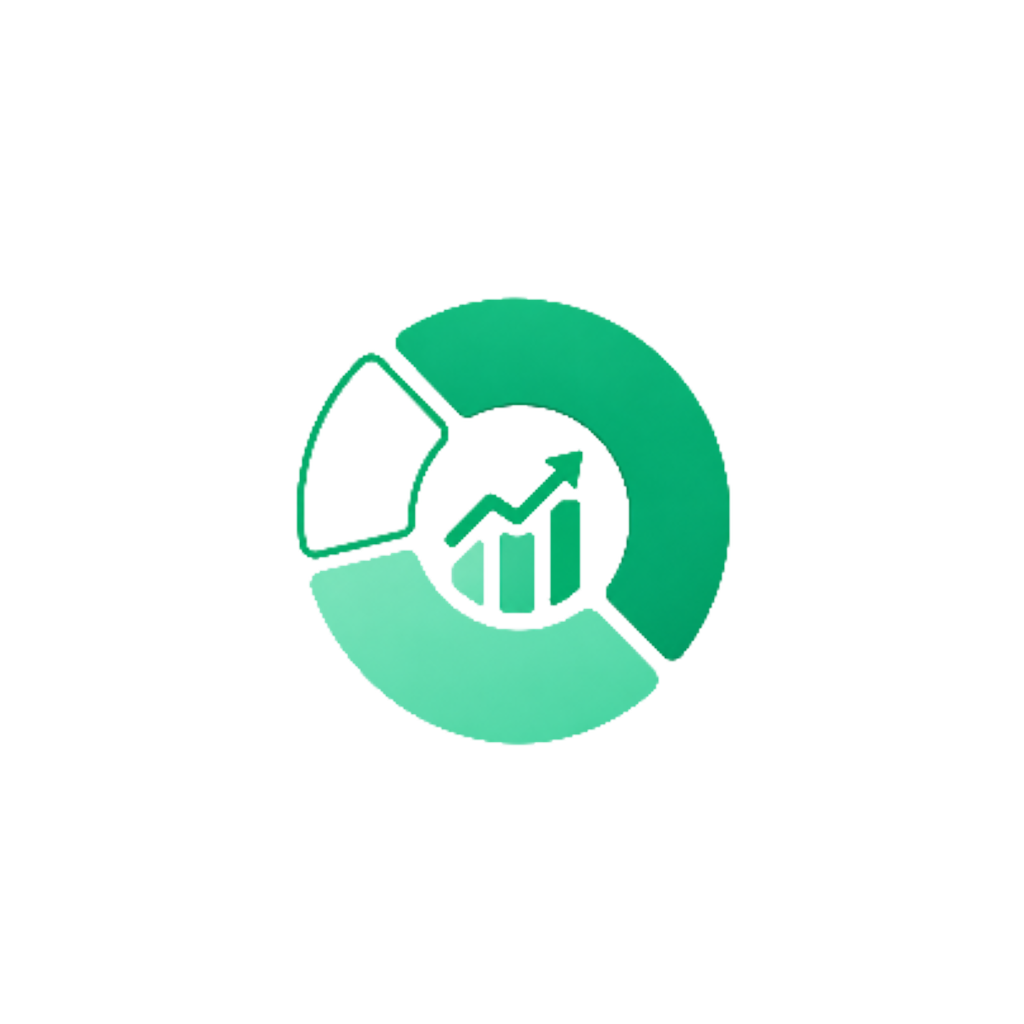
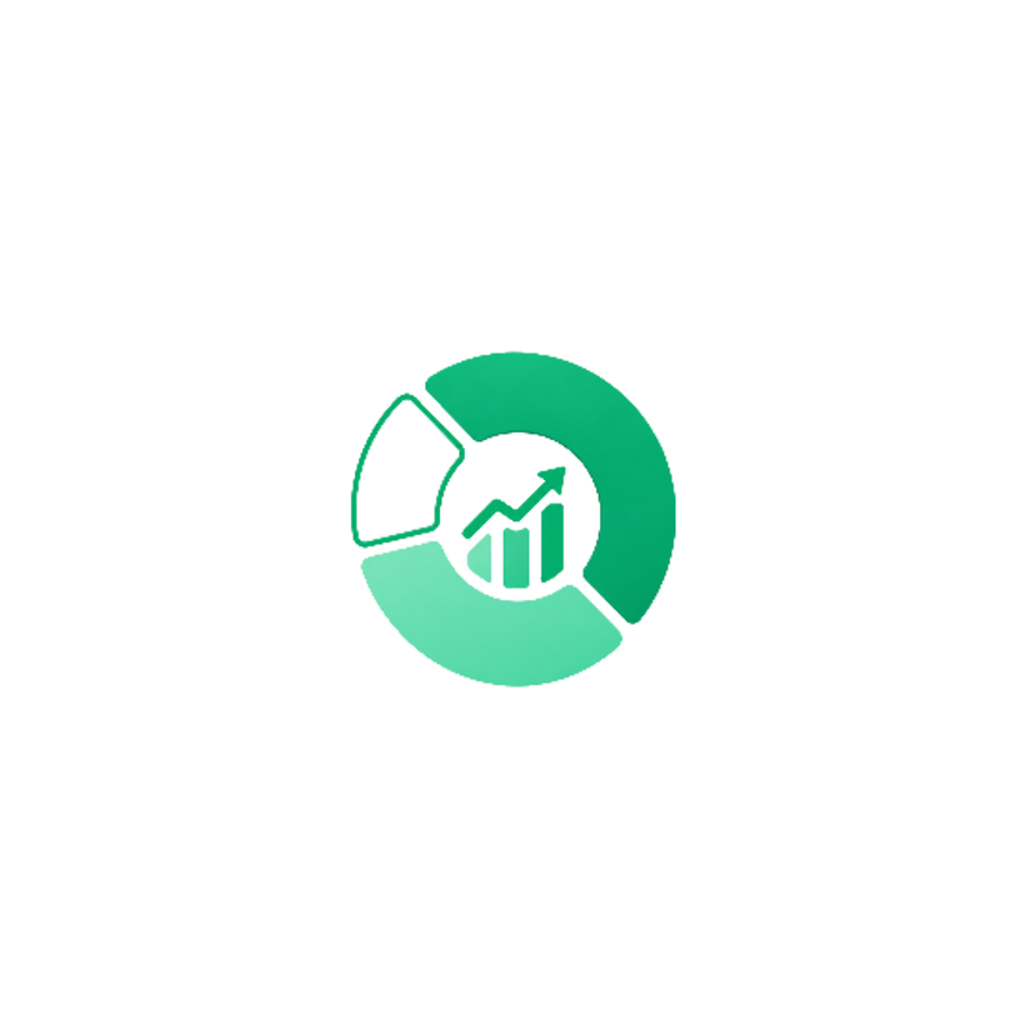
feat: 8 update UX sebelum build
1. Setup Wizard — jumlah sales pakai navigator ‹ › max 2 (free tier)
   Bisa tambah lebih nanti di Pengaturan, tidak ada upgrade prompt saat setup

2. HistoryScreen crash (chipStyle missing C) — sudah di-fix sebelumnya

3. Icon APK — logo 75% canvas (naik dari 68%, lebih besar, tidak terpotong)
   Pakai sharp trim() agar logo murni sebelum resize

4. Header logo terpisah — assets/logo_header.png (transparent bg, 85%)
   Header App.js pakai logo_header.png bukan icon.png (no borderRadius)

5. Settings — Simpan inline per-section, hapus tombol besar di bawah
   Nama Bisnis: tombol ✓ di sebelah kanan TextInput
   Format Bon: tombol ✓ Simpan di sebelah kanan preview bon

6. Format Tanggal — kompak 3 chip horizontal, klik langsung simpan otomatis
   Tidak perlu tombol terpisah, lebih ringkas

7. Lock screen — selalu lock langsung saat app ditutup (seperti app bank)
   Hapus pilihan timeout (Langsung/30s/1m/5m) — terlalu banyak setting

8. Auto-sync GDrive setiap 10 input transaksi (silent, tidak ada Alert)

Changed region(s): [[0.2812, 0.2812, 0.7188, 0.75]]

diff --git a/src/screens/SettingsModal.js b/src/screens/SettingsModal.js
@@ -58,15 +58,19 @@ function SettingsModal({ data, onUpdate, onImport, onRestoreJson, onClose,
   const [fmt,     setFmt]       = useState(dateFormat||'dd/mm/yyyy');
   const [newSales, setNewSales] = useState('');
 
-  const save = async () => {
+  // Save individual sections inline
+  const saveCompany = async () => {
+    if (!company.trim()) { Alert.alert('', 'Nama bisnis tidak boleh kosong'); return; }
+    await onUpdate({ companyName: company.trim() });
+    Alert.alert('✓', 'Nama bisnis disimpan');
+  };
+  const saveBonFormat = async () => {
     await onUpdate({
-      companyName:   company.trim(),
-      bonPrefix:     prefix.toUpperCase(),
-      bonSeparator:  sep,
-      bonDigits:     Math.max(1, parseInt(digits)||5),
-      dateFormat:    fmt,
+      bonPrefix:    prefix.toUpperCase(),
+      bonSeparator: sep,
+      bonDigits:    Math.max(1, parseInt(digits)||5),
     });
-    onClose();
+    Alert.alert('✓', 'Format bon disimpan');
   };
 
   const handleAddSales = async () => {
@@ -604,11 +608,19 @@ function SettingsModal({ data, onUpdate, onImport, onRestoreJson, onClose,
         </View>
 
         <ScrollView contentContainerStyle={{ padding:16, paddingBottom:50 }}>
-          {/* Company */}
+          {/* Company — simpan inline */}
           <View style={st.card}>
             <Text style={st.label}>Nama Bisnis</Text>
-            <TextInput value={company} onChangeText={setCompany}
-              placeholder="Nama bisnis..." placeholderTextColor={C.muted} style={st.input} />
+            <View style={{ flexDirection:'row', gap:8, alignItems:'center' }}>
+              <TextInput value={company} onChangeText={setCompany}
+                placeholder="Nama bisnis..." placeholderTextColor={C.muted}
+                style={[st.input, { flex:1 }]} />
+              <TouchableOpacity onPress={saveCompany}
+                style={{ backgroundColor:C.primary, borderRadius:10, paddingHorizontal:14,
+                  paddingVertical:14, alignItems:'center' }}>
+                <Text style={{ color:'#fff', fontSize:13, fontWeight:'800' }}>✓</Text>
+              </TouchableOpacity>
+            </View>
           </View>
 
           {/* Sales management */}
@@ -659,23 +671,37 @@ function SettingsModal({ data, onUpdate, onImport, onRestoreJson, onClose,
                   keyboardType="number-pad" style={st.input} placeholderTextColor={C.muted}/>
               </View>
             </View>
-            <Text style={[st.mono, { color:C.accent, fontSize:16, fontWeight:'800' }]}>
-              {prefix}{sep}{padNum(1, parseInt(digits)||5)}
-            </Text>
+            <View style={{ flexDirection:'row', alignItems:'center', justifyContent:'space-between' }}>
+              <Text style={[st.mono, { color:C.accent, fontSize:16, fontWeight:'800' }]}>
+                {prefix}{sep}{padNum(1, parseInt(digits)||5)}
+              </Text>
+              <TouchableOpacity onPress={saveBonFormat}
+                style={{ backgroundColor:C.primary, borderRadius:10, paddingHorizontal:16,
+                  paddingVertical:8 }}>
+                <Text style={{ color:'#fff', fontSize:13, fontWeight:'800' }}>✓ Simpan</Text>
+              </TouchableOpacity>
+            </View>
           </View>
 
-          {/* Date format */}
+          {/* Date format — kompak, pilih langsung simpan */}
           <View style={st.card}>
             <Text style={{ color:C.muted, fontSize:11, fontWeight:'700', letterSpacing:0.8, textTransform:'uppercase', marginBottom:10 }}>
               FORMAT TANGGAL
             </Text>
-            {['dd/mm/yyyy','mm/dd/yyyy','yyyy/mm/dd'].map(f => (
-              <TouchableOpacity key={f} onPress={() => setFmt(f)}
-                style={{ flexDirection:'row', justifyContent:'space-between', paddingVertical:10, borderBottomWidth:1, borderBottomColor:C.border }}>
-                <Text style={{ color:C.text, fontSize:14 }}>{f.toUpperCase()}</Text>
-                {fmt===f && <Text style={{ color:C.success }}>✓</Text>}
-              </TouchableOpacity>
-            ))}
+            <View style={{ flexDirection:'row', gap:6 }}>
+              {['dd/mm/yyyy','mm/dd/yyyy','yyyy/mm/dd'].map(f => (
+                <TouchableOpacity key={f}
+                  onPress={async () => { setFmt(f); await onUpdate({ dateFormat: f }); }}
+                  style={{ flex:1, paddingVertical:10, borderRadius:10, alignItems:'center',
+                    backgroundColor: fmt===f ? C.primary : C.input,
+                    borderWidth: fmt===f ? 0 : 1, borderColor: C.border }}>
+                  <Text style={{ color: fmt===f ? '#fff' : C.muted, fontSize:10, fontWeight:'700' }}>
+                    {f.toUpperCase()}
+                  </Text>
+                  {fmt===f && <Text style={{ color:'rgba(255,255,255,0.7)', fontSize:8, marginTop:2 }}>✓ aktif</Text>}
+                </TouchableOpacity>
+              ))}
+            </View>
           </View>
 
           {/* Google Drive Backup — locked jika belum beli BACKUP SYNC */}
@@ -891,11 +917,10 @@ function SettingsModal({ data, onUpdate, onImport, onRestoreJson, onClose,
                       cancelLabel:           'Batal',
                       disableDeviceFallback: false,
                     });
-                    if (!result.success) return; // batal — jangan aktifkan
+                    if (!result.success) return;
                     setPinLockEnabled(true);
-                    onUpdate({ pinLockEnabled: true });
-                    const tLabel = lockTimeout === 0 ? 'langsung' : lockTimeout < 60 ? `${lockTimeout} detik` : `${lockTimeout/60} menit`;
-                    Alert.alert('🔐 Kunci Aktif', `Aplikasi akan dikunci ${tLabel} setelah background.`);
+                    onUpdate({ pinLockEnabled: true, lockTimeout: 0 }); // selalu lock langsung
+                    Alert.alert('🔐 Kunci Aktif', 'Aplikasi akan dikunci otomatis saat ditutup.');
                   } else {
                     // ── NONAKTIFKAN: langsung disable ──
                     setPinLockEnabled(false);
@@ -909,32 +934,11 @@ function SettingsModal({ data, onUpdate, onImport, onRestoreJson, onClose,
                   alignSelf: pinLockEnabled ? 'flex-end' : 'flex-start' }} />
               </TouchableOpacity>
             </View>
-            {/* Lock Timeout — hanya muncul jika kunci aktif */}
+            {/* Kunci langsung saat tutup app — seperti aplikasi bank */}
             {pinLockEnabled && (
-              <View style={{ marginTop:12 }}>
-                <Text style={{ color:C.muted, fontSize:11, fontWeight:'700', marginBottom:8 }}>
-                  ⏱ KUNCI OTOMATIS SETELAH
-                </Text>
-                <View style={{ flexDirection:'row', flexWrap:'wrap', gap:8 }}>
-                  {[
-                    { val:0,   label:'Langsung' },
-                    { val:30,  label:'30 detik' },
-                    { val:60,  label:'1 menit'  },
-                    { val:300, label:'5 menit'  },
-                  ].map(opt => (
-                    <TouchableOpacity key={opt.val}
-                      onPress={() => { setLockTimeout(opt.val); onUpdate({ lockTimeout: opt.val }); }}
-                      style={{ paddingHorizontal:14, paddingVertical:8, borderRadius:10,
-                        backgroundColor: lockTimeout === opt.val ? C.primary : C.input,
-                        borderWidth:1, borderColor: lockTimeout === opt.val ? C.primary : C.border }}>
-                      <Text style={{ color: lockTimeout === opt.val ? '#fff' : C.muted,
-                        fontSize:12, fontWeight:'700' }}>
-                        {opt.label}
-                      </Text>
-                    </TouchableOpacity>
-                  ))}
-                </View>
-              </View>
+              <Text style={{ color:C.muted, fontSize:11, marginTop:8 }}>
+                🔒 Dikunci otomatis saat aplikasi ditutup
+              </Text>
             )}
           </View>
 
@@ -1027,12 +1031,7 @@ function SettingsModal({ data, onUpdate, onImport, onRestoreJson, onClose,
             ))}
           </View>
 
-          {/* Save */}
-          <TouchableOpacity onPress={save} style={[btnStyle(C.success), {marginTop:4}]}>
-            <Text style={{ color:'#fff', fontSize:16, fontWeight:'800' }}>✓  Simpan Pengaturan</Text>
-          </TouchableOpacity>
-
-          <Text style={{ color:C.muted, fontSize:11, textAlign:'center', marginTop:16 }}>
+          <Text style={{ color:C.muted, fontSize:11, textAlign:'center', marginTop:4 }}>
             OmsetKu v{APP_VER}
           </Text>
           <Text style={{ color:C.muted, fontSize:10, textAlign:'center', marginTop:4 }}>

diff --git a/src/screens/SetupWizard.js b/src/screens/SetupWizard.js
@@ -41,11 +41,36 @@ function SetupWizard({ data, onComplete }) {
       <TextInput value={company} onChangeText={setCompany}
         placeholder="Toko Mainan Ceria" placeholderTextColor={C.muted} style={st.input} />
     </View>,
-    // Step 2: num sales
+    // Step 2: num sales — free tier max 2, tambah lebih di Settings nanti
     <View key={2}>
-      <Text style={{ color:C.text, fontSize:20, fontWeight:'800', marginBottom:8 }}>Jumlah Sales</Text>
-      <TextInput value={numS} onChangeText={v => setNumS(v.replace(/\D/g,''))}
-        keyboardType="number-pad" style={[st.input, {width:100}]} />
+      <Text style={{ color:C.text, fontSize:20, fontWeight:'800', marginBottom:6 }}>Jumlah Sales</Text>
+      <Text style={{ color:C.muted, fontSize:12, marginBottom:24 }}>
+        Bisa ditambah lagi nanti di Pengaturan
+      </Text>
+      <View style={{ flexDirection:'row', alignItems:'center', justifyContent:'center', gap:32 }}>
+        <TouchableOpacity
+          onPress={() => setNumS(String(Math.max(1, parseInt(numS)||1) - 1))}
+          disabled={(parseInt(numS)||1) <= 1}
+          style={{ backgroundColor:C.input, borderRadius:12, width:52, height:52,
+            alignItems:'center', justifyContent:'center',
+            opacity: (parseInt(numS)||1) <= 1 ? 0.3 : 1 }}>
+          <Text style={{ color:C.text, fontSize:28, fontWeight:'700' }}>‹</Text>
+        </TouchableOpacity>
+        <View style={{ alignItems:'center', minWidth:80 }}>
+          <Text style={{ color:C.accent, fontSize:56, fontWeight:'800', lineHeight:60 }}>
+            {numS || '1'}
+          </Text>
+          <Text style={{ color:C.muted, fontSize:13, marginTop:4 }}>sales</Text>
+        </View>
+        <TouchableOpacity
+          onPress={() => setNumS(String(Math.min(2, parseInt(numS)||1) + 1))}
+          disabled={(parseInt(numS)||1) >= 2}
+          style={{ backgroundColor:C.input, borderRadius:12, width:52, height:52,
+            alignItems:'center', justifyContent:'center',
+            opacity: (parseInt(numS)||1) >= 2 ? 0.3 : 1 }}>
+          <Text style={{ color:C.text, fontSize:28, fontWeight:'700' }}>›</Text>
+        </TouchableOpacity>
+      </View>
     </View>,
     // Step 3: sales names
     <View key={3}>

diff --git a/App.js b/App.js
@@ -193,7 +193,8 @@ export default function App() {
 
   // Re-cek token + auto-sync saat app kembali ke foreground
   // Gunakan ref untuk handleSyncDrive agar tidak ada stale closure
-  const syncDriveRef = useRef(null);
+  const syncDriveRef   = useRef(null);
+  const saveCountRef   = useRef(0); // counter untuk auto-sync setiap 10 input
   useEffect(() => { syncDriveRef.current = handleSyncDrive; });
 
   useEffect(() => {
@@ -333,23 +334,15 @@ export default function App() {
     }
   }, [dbReady, data]);
 
-  // Lock kembali sesuai timeout yang diset user (0=langsung, 30=30s, 60=1m, 300=5m)
+  // Lock langsung saat app masuk background — seperti aplikasi bank
   useEffect(() => {
-    const lockTimeout = data?.lockTimeout ?? 30; // detik
     const sub = AppState.addEventListener('change', nextState => {
-      if (nextState === 'background' || nextState === 'inactive') {
-        lastBackgroundTime.current = Date.now();
-        // lockTimeout=0: langsung kunci saat masuk background
-        if (lockTimeout === 0 && data?.pinLockEnabled) setIsLocked(true);
-      } else if (nextState === 'active') {
-        if (data?.pinLockEnabled && lockTimeout > 0 && lastBackgroundTime.current) {
-          if (Date.now() - lastBackgroundTime.current > lockTimeout * 1000) setIsLocked(true);
-        }
-        lastBackgroundTime.current = null;
+      if ((nextState === 'background' || nextState === 'inactive') && data?.pinLockEnabled) {
+        setIsLocked(true); // selalu lock langsung, tidak ada delay
       }
     });
     return () => sub.remove();
-  }, [data?.pinLockEnabled, data?.lockTimeout]);
+  }, [data?.pinLockEnabled]);
 
   const handleAuthenticate = useCallback(async () => {
     try {
@@ -441,6 +434,14 @@ export default function App() {
       await reloadData();
       setSaveState('saved');
       handleInAppReview(); // trigger review setelah bon ke-10
+      // Auto-sync GDrive setiap 10 input (jika Drive terhubung)
+      saveCountRef.current++;
+      if (saveCountRef.current >= 10) {
+        saveCountRef.current = 0;
+        SecureStore.getItemAsync(GDRIVE_EMAIL_KEY).then(email => {
+          if (email) syncDriveRef.current?.(true); // silent sync
+        }).catch(() => {});
+      }
     } catch(e) { setSaveState('error'); Alert.alert('Error', String(e)); }
     setTimeout(() => setSaveState('idle'), 2000);
   }, [reloadData, handleInAppReview]);
@@ -731,8 +732,8 @@ export default function App() {
 
       {/* Header */}
       <View style={{ flexDirection:'row', alignItems:'center', paddingHorizontal:16, paddingVertical:10, borderBottomWidth:1, borderBottomColor:C.border }}>
-        <Image source={require('./assets/icon.png')}
-          style={{ width:32, height:32, borderRadius:8, marginRight:10 }} />
+        <Image source={require('./assets/logo_header.png')}
+          style={{ width:34, height:34, marginRight:10 }} />
         <View style={{ flex:1 }}>
           <Text style={{ color:C.text, fontSize:13, fontWeight:'800' }}>
             {data.companyName || 'OmsetKu'}